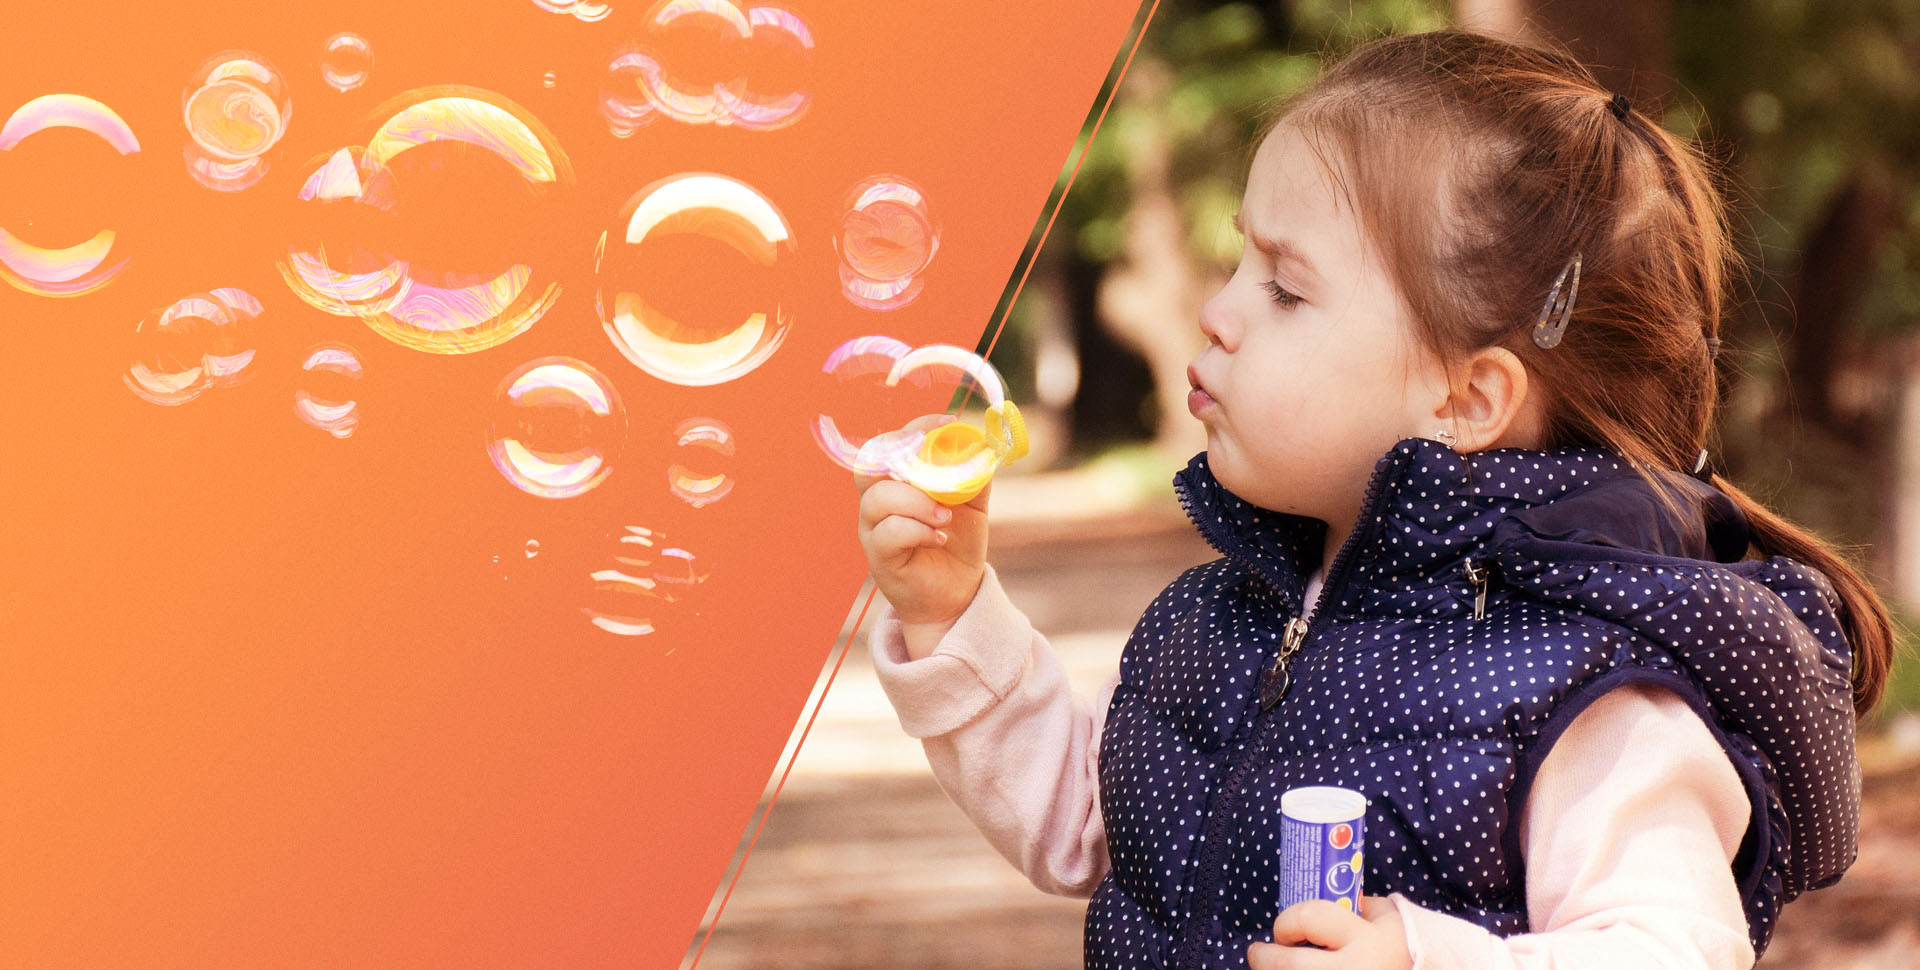
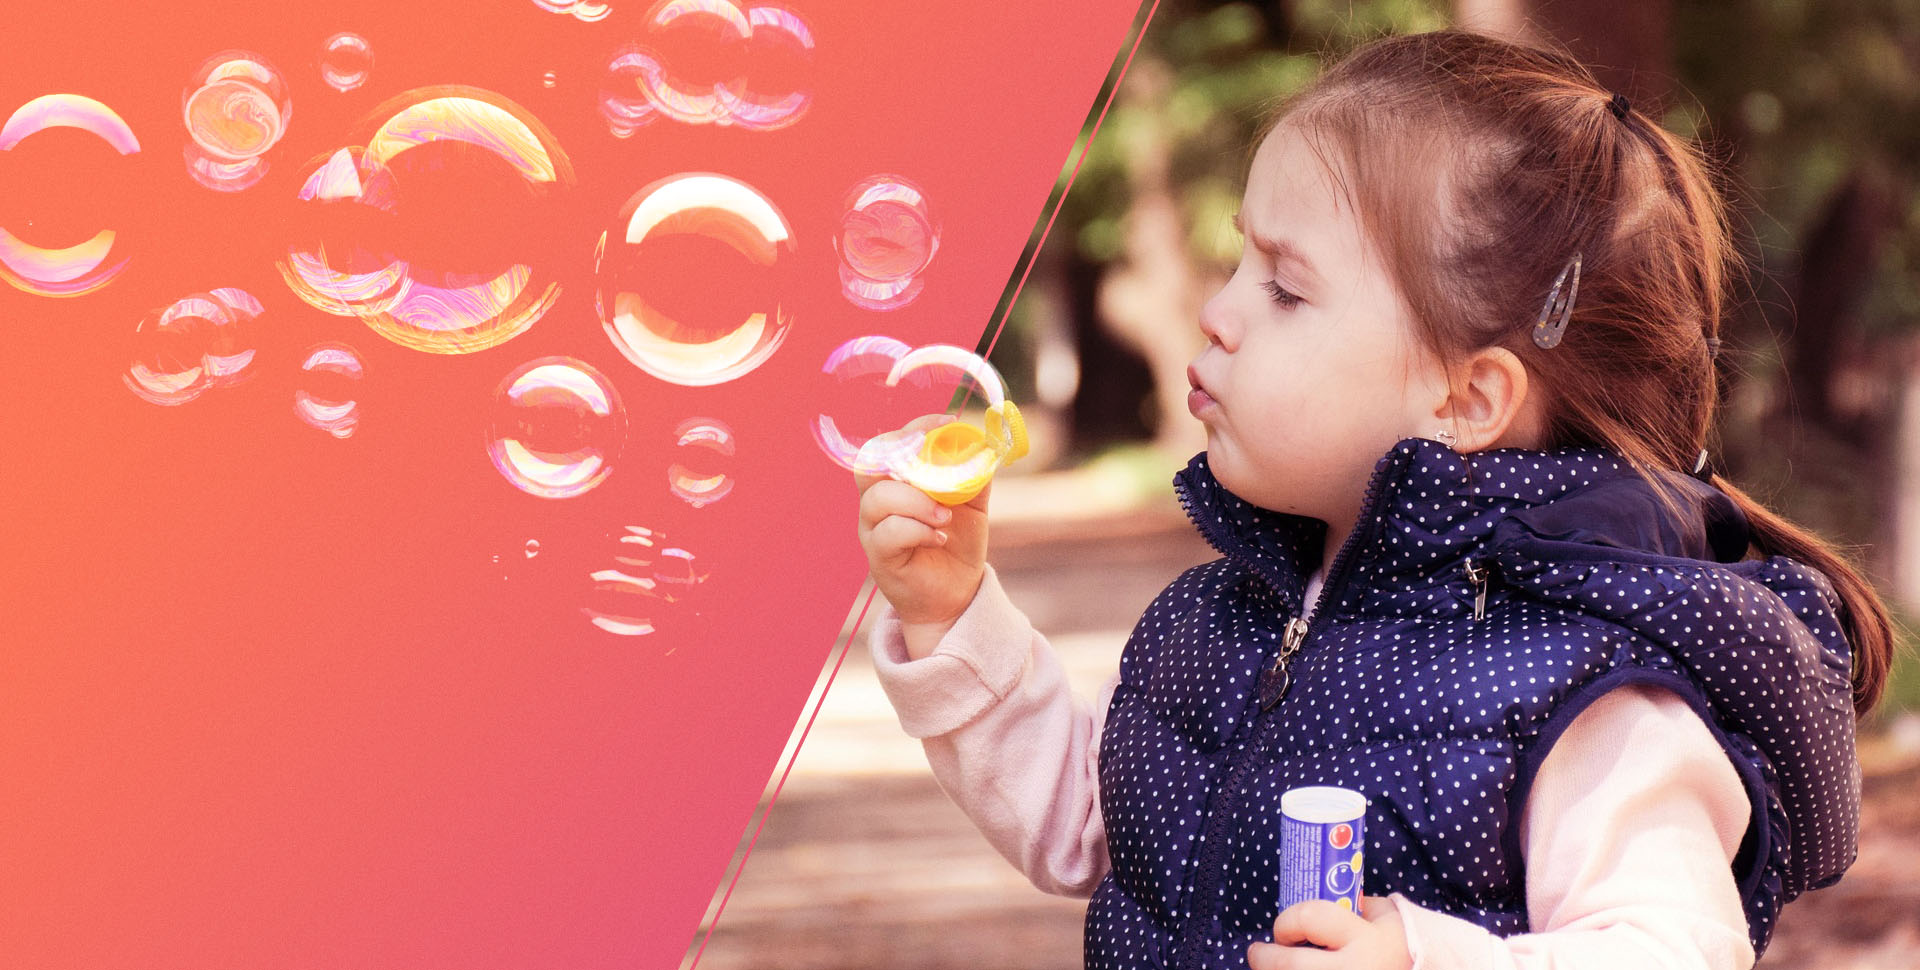
change alteernate color scheme

diff --git a/src/pages/index-alternate.js b/src/pages/index-alternate.js
@@ -29,10 +29,10 @@ const IndexAlternatePage = () =>
           width: '100%',
           height: '100%',
           background: primaryGradientColor1,
-          background: '-moz-linear-gradient(-45deg, #ff9547 0%, #df5353 100%)',
-          background: '-webkit-linear-gradient(-45deg, #ff9547 0%, #df5353 100%)',
-          background: 'linear-gradient(135deg, #ff9547 0%, #df5353 100%)',
-          filter: 'progid:DXImageTransform.Microsoft.gradient(startColorstr="#ff9547", endColorstr="#df5353", GradientType=1)',
+          background: '-moz-linear-gradient(-45deg, #fc7556 0%, #d84788 100%)',
+          background: '-webkit-linear-gradient(-45deg, #fc7556 0%, #d84788 100%)',
+          background: 'linear-gradient(135deg, #fc7556 0%, #d84788 100%)',
+          filter: 'progid:DXImageTransform.Microsoft.gradient(startColorstr="#fc7556", endColorstr="#d84788", GradientType=1)',
           position: 'fixed',
       }}>
 
